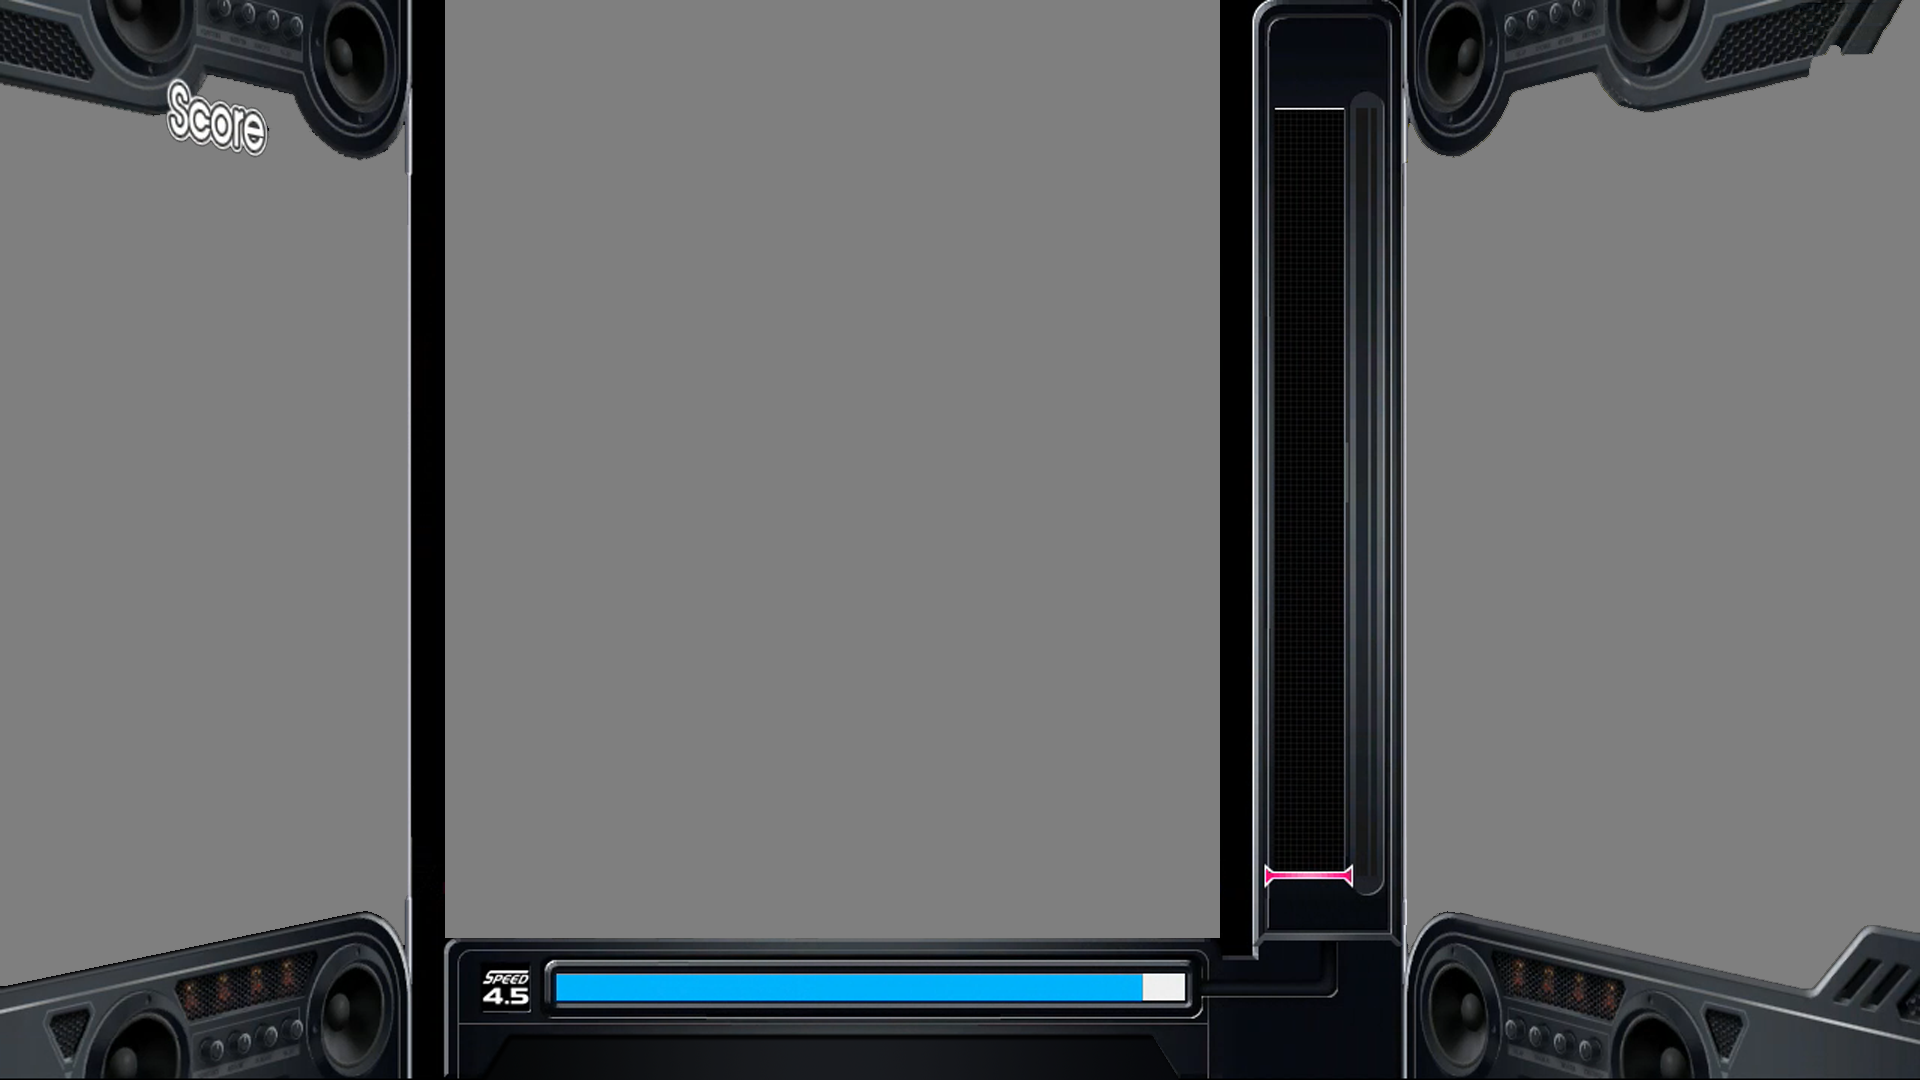
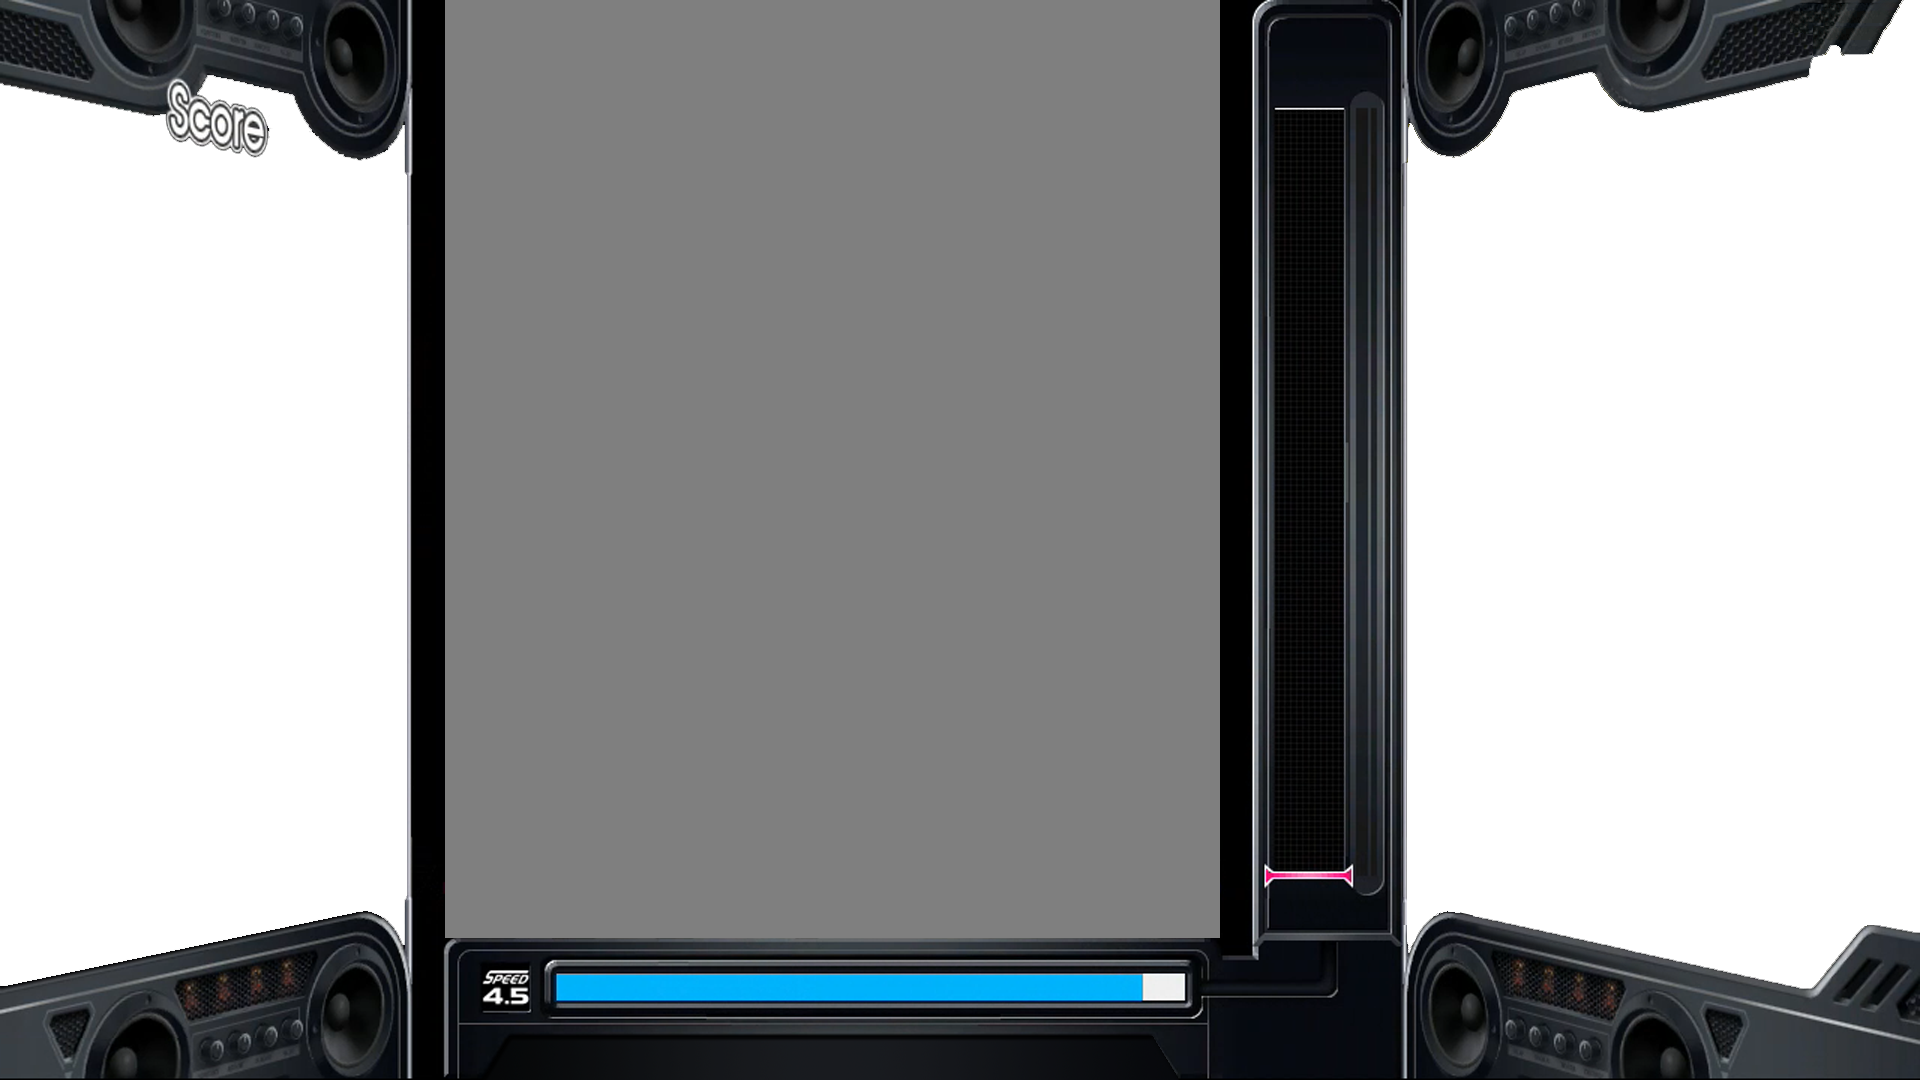
左右サイドのクリアパネルを実装。

diff --git a/DTXmatixx/ステージ/演奏/演奏ステージ.cs b/DTXmatixx/ステージ/演奏/演奏ステージ.cs
@@ -48,6 +48,9 @@ namespace DTXmatixx.ステージ.演奏
 			this.子リスト.Add( this._ドラムチップ画像 = new 画像( @"$(System)images\ドラムチップ.png" ) );
 			this.子リスト.Add( this._判定文字列 = new 判定文字列() );
 			this.子リスト.Add( this._チップ光 = new チップ光() );
+			this.子リスト.Add( this._左サイドクリアパネル = new 左サイドクリアパネル() );
+			this.子リスト.Add( this._右サイドクリアパネル = new 右サイドクリアパネル() );
+			this.子リスト.Add( this._コンボ = new コンボ() );
 			this.子リスト.Add( this._FPS = new FPS() );
 		}
 		protected override void On活性化( グラフィックデバイス gd )
@@ -331,10 +334,20 @@ namespace DTXmatixx.ステージ.演奏
 			{
 				case フェーズ.フェードイン:
 					{
+						this._左サイドクリアパネル.クリアする( gd );
+						this._左サイドクリアパネル.クリアパネル.ビットマップへ描画する( gd, ( dc, bmp ) => {
+							this._ステータスパネル.描画する( dc, bmp );
+						} );
+						this._左サイドクリアパネル.描画する( gd );
+
+						this._右サイドクリアパネル.クリアする( gd );
+						this._右サイドクリアパネル.クリアパネル.ビットマップへ描画する( gd, ( dc, bmp ) => {
+							this._成績パネル.描画する( dc, bmp );
+						} );
+						this._右サイドクリアパネル.描画する( gd );
+
 						this._背景画像.描画する( gd, 0f, 0f );
 						this._ドラムパッド.進行描画する( gd );
-						this._ステータスパネル.描画する( gd );
-						this._成績パネル.進行描画する( gd );
 						this._曲名パネル.描画する( gd );
 						this._ヒットバーを描画する( gd );
 						this._キャプチャ画面を描画する( gd, ( 1.0f - this._フェードインカウンタ.現在値の割合 ) );
@@ -403,16 +416,28 @@ namespace DTXmatixx.ステージ.演奏
 							// 開始直後のデコードが重たいかもしれないので、演奏時刻をここで更新しておく。	---> 重たくても更新禁止！（譜面スクロールがガタつく原因になる）
 							//演奏時刻sec = this._演奏開始からの経過時間secを返す();
 						}
+
+						this._左サイドクリアパネル.クリアする( gd );
+						this._左サイドクリアパネル.クリアパネル.ビットマップへ描画する( gd, ( dc, bmp ) => {
+							this._ステータスパネル.描画する( dc, bmp );
+						} );
+						this._左サイドクリアパネル.描画する( gd );
+
+						this._右サイドクリアパネル.クリアする( gd );
+						this._右サイドクリアパネル.クリアパネル.ビットマップへ描画する( gd, ( dc, bmp ) => {
+							this._成績パネル.描画する( dc, bmp );
+						} );
+						this._右サイドクリアパネル.描画する( gd );
+
 						this._小節線拍線を描画する( gd, 演奏時刻sec );
 						this._背景画像.描画する( gd, 0f, 0f );
 						this._ドラムパッド.進行描画する( gd );
-						this._ステータスパネル.描画する( gd );
-						this._成績パネル.進行描画する( gd );
 						this._曲名パネル.描画する( gd );
 						this._ヒットバーを描画する( gd );
 						this._チップを描画する( gd, 演奏時刻sec );
 						this._チップ光.進行描画する( gd );
 						this._判定文字列.進行描画する( gd );
+//						this._コンボ.進行描画する( gd );
 						this._FPS.VPSをカウントする();
 						this._FPS.描画する( gd, 0f, 0f );
 					}
@@ -468,6 +493,9 @@ namespace DTXmatixx.ステージ.演奏
 		private ドラムパッド _ドラムパッド = null;
 		private 判定文字列 _判定文字列 = null;
 		private チップ光 _チップ光 = null;
+		private 左サイドクリアパネル _左サイドクリアパネル = null;
+		private 右サイドクリアパネル _右サイドクリアパネル = null;
+		private コンボ _コンボ = null;
 		private FPS _FPS = null;
 		/// <summary>
 		///		読み込み画面: 0 ～ 1: 演奏画面

diff --git a/DTXmatixx/ステージ/演奏/左サイドクリアパネル.cs b/DTXmatixx/ステージ/演奏/左サイドクリアパネル.cs
@@ -1,0 +1,68 @@
+using System;
+using System.Collections.Generic;
+using System.Diagnostics;
+using System.Linq;
+using SharpDX;
+using SharpDX.Direct2D1;
+using FDK;
+using FDK.メディア;
+
+namespace DTXmatixx.ステージ.演奏
+{
+	class 左サイドクリアパネル : Activity
+	{
+		public ビットマップ付きテクスチャ クリアパネル
+		{
+			get;
+			protected set;
+		} = null;
+
+		public 左サイドクリアパネル()
+		{
+			this.子リスト.Add( this._背景 = new 画像( @"$(System)images\左サイドクリアパネル.png" ) );
+			this.子リスト.Add( this.クリアパネル = new ビットマップ付きテクスチャ( new Size2( 388, 990 ) ) );	// this._背景.サイズはまだ設定されていない。
+		}
+
+		protected override void On活性化( グラフィックデバイス gd )
+		{
+			using( Log.Block( FDKUtilities.現在のメソッド名 ) )
+			{
+			}
+		}
+		protected override void On非活性化( グラフィックデバイス gd )
+		{
+			using( Log.Block( FDKUtilities.現在のメソッド名 ) )
+			{
+			}
+		}
+
+		/// <summary>
+		///		クリアパネルに初期背景を上書きすることで、それまで描かれていた内容を消去する。
+		/// </summary>
+		public void クリアする( グラフィックデバイス gd )
+		{
+			this.クリアパネル.ビットマップへ描画する( gd, ( dc, bmp ) => {
+				// bmp は AlphaMode.Premultiplied なので、opacity に何を設定しても 1f（不透明）扱いになるので注意。
+				dc.DrawBitmap( this._背景.Bitmap, opacity: 0.005f, interpolationMode: InterpolationMode.Linear );
+			} );
+		}
+		public void 描画する( グラフィックデバイス gd )
+		{
+			// テクスチャは画面中央が (0,0,0) で、Xは右がプラス方向, Yは上がプラス方向, Zは奥がプラス方向+。
+
+			var 画面左上dpx = new Vector3(  // 3D視点で見る画面左上の座標。
+				-gd.設計画面サイズ.Width / 2f,
+				+gd.設計画面サイズ.Height / 2f,
+				0f );
+
+			var 変換行列 =
+				Matrix.Scaling( this.クリアパネル.サイズ.Width, this.クリアパネル.サイズ.Height, 1f ) *
+				Matrix.RotationY( MathUtil.DegreesToRadians( -48f ) ) *
+				Matrix.Translation( 画面左上dpx.X + 230f, 画面左上dpx.Y - 530f, 0f );
+
+			this.クリアパネル.描画する( gd, 変換行列 );
+		}
+
+		private 画像 _背景 = null;
+	}
+}

diff --git a/DTXmatixx/ステージ/演奏/コンボ.cs b/DTXmatixx/ステージ/演奏/コンボ.cs
@@ -1,0 +1,75 @@
+using System;
+using System.Collections.Generic;
+using System.Diagnostics;
+using System.Linq;
+using SharpDX;
+using FDK;
+using FDK.メディア;
+
+namespace DTXmatixx.ステージ.演奏
+{
+	class コンボ : Activity
+	{
+		public int 現在値
+		{
+			get;
+			set;
+		} = 1234567;
+
+		public コンボ()
+		{
+			this.子リスト.Add( this._コンボ文字画像 = new テクスチャ( @"$(System)images\コンボ文字.png" ) );
+		}
+
+		protected override void On活性化( グラフィックデバイス gd )
+		{
+			using( Log.Block( FDKUtilities.現在のメソッド名 ) )
+			{
+				this._コンボ文字画像の矩形 = new 矩形リスト( @"$(System)images\コンボ文字矩形.xml" );
+			}
+		}
+		protected override void On非活性化( グラフィックデバイス gd )
+		{
+			using( Log.Block( FDKUtilities.現在のメソッド名 ) )
+			{
+			}
+		}
+
+		public void 進行描画する( グラフィックデバイス gd )
+		{
+			// テクスチャは画面中央が (0,0,0) で、Xは右がプラス方向, Yは上がプラス方向, Zは奥がプラス方向+。
+
+			var 画面左上dpx = new Vector3(  // 3D視点で見る画面左上の座標。
+				-gd.設計画面サイズ.Width / 2f,
+				+gd.設計画面サイズ.Height / 2f,
+				0f );
+
+			var 数字 = this.現在値.ToString();
+
+			float 数字全体の幅dpx = 0f;
+			for( int i = 0; i < 数字.Length; i++ )
+				数字全体の幅dpx += this._コンボ文字画像の矩形[ 数字[ i ].ToString() ].Value.Size.Width;
+
+			float Xdpx = -( 数字全体の幅dpx / 2f );
+			for( int i = 0; i < 数字.Length; i++ )
+			{
+				var 矩形 = this._コンボ文字画像の矩形[ 数字[ i ].ToString() ].Value;
+
+				//矩形.Width *= 0.5f;   // 修正
+
+				var 変換行列 =
+					Matrix.Scaling( 矩形.Width, 矩形.Height, 1f ) *
+					Matrix.Translation( Xdpx, 0f, 0f ) *  // ローカル座標での移動
+					Matrix.RotationY( MathUtil.DegreesToRadians( +48f ) ) *
+					Matrix.Translation( 画面左上dpx.X + 1506f, 画面左上dpx.Y - 530f, 0f );  // ワールド座標での移動
+
+				this._コンボ文字画像.描画する( gd, 変換行列, 矩形 );
+
+				Xdpx += 矩形.Width;// - 10f; // ちょっと詰める
+			}
+		}
+
+		private テクスチャ _コンボ文字画像 = null;
+		private 矩形リスト _コンボ文字画像の矩形 = null;
+	}
+}

diff --git a/DTXmatixx/ステージ/演奏/右サイドクリアパネル.cs b/DTXmatixx/ステージ/演奏/右サイドクリアパネル.cs
@@ -1,0 +1,67 @@
+using System;
+using System.Collections.Generic;
+using System.Diagnostics;
+using System.Linq;
+using SharpDX;
+using SharpDX.Direct2D1;
+using FDK;
+using FDK.メディア;
+
+namespace DTXmatixx.ステージ.演奏
+{
+	class 右サイドクリアパネル : Activity
+	{
+		public ビットマップ付きテクスチャ クリアパネル
+		{
+			get;
+			protected set;
+		} = null;
+
+		public 右サイドクリアパネル()
+		{
+			this.子リスト.Add( this._背景 = new 画像( @"$(System)images\右サイドクリアパネル.png" ) );
+			this.子リスト.Add( this.クリアパネル = new ビットマップ付きテクスチャ( new Size2( 500, 990 ) ) );  // this._背景.サイズはまだ設定されていない。
+		}
+
+		protected override void On活性化( グラフィックデバイス gd )
+		{
+			using( Log.Block( FDKUtilities.現在のメソッド名 ) )
+			{
+			}
+		}
+		protected override void On非活性化( グラフィックデバイス gd )
+		{
+			using( Log.Block( FDKUtilities.現在のメソッド名 ) )
+			{
+			}
+		}
+
+		/// <summary>
+		///		クリアパネルに初期背景を上書きすることで、それまで描かれていた内容を消去する。
+		/// </summary>
+		public void クリアする( グラフィックデバイス gd )
+		{
+			this.クリアパネル.ビットマップへ描画する( gd, ( dc, bmp ) => {
+				dc.DrawBitmap( this._背景.Bitmap, opacity: 0.005f, interpolationMode: InterpolationMode.Linear );
+			} );
+		}
+		public void 描画する( グラフィックデバイス gd )
+		{
+			// テクスチャは画面中央が (0,0,0) で、Xは右がプラス方向, Yは上がプラス方向, Zは奥がプラス方向+。
+
+			var 画面左上dpx = new Vector3(  // 3D視点で見る画面左上の座標。
+				-gd.設計画面サイズ.Width / 2f,
+				+gd.設計画面サイズ.Height / 2f,
+				0f );
+
+			var 変換行列 =
+				Matrix.Scaling( this.クリアパネル.サイズ.Width, this.クリアパネル.サイズ.Height, 1f ) *
+				Matrix.RotationY( MathUtil.DegreesToRadians( +48f ) ) *
+				Matrix.Translation( 画面左上dpx.X + 1630f, 画面左上dpx.Y - 530f, 0f );
+
+			this.クリアパネル.描画する( gd, 変換行列 );
+		}
+
+		private 画像 _背景 = null;
+	}
+}

diff --git a/DTXmatixx/ステージ/演奏/ステータスパネル.cs b/DTXmatixx/ステージ/演奏/ステータスパネル.cs
@@ -3,6 +3,7 @@ using System.Collections.Generic;
 using System.Diagnostics;
 using System.Linq;
 using SharpDX;
+using SharpDX.Direct2D1;
 using FDK;
 using FDK.メディア;
 
@@ -12,7 +13,7 @@ namespace DTXmatixx.ステージ.演奏
 	{
 		public ステータスパネル()
 		{
-			this.子リスト.Add( this._パネル = new テクスチャ( @"$(System)images\演奏画面_ステータスパネル.png" ) );
+			this.子リスト.Add( this._パネル = new 画像( @"$(System)images\演奏画面_ステータスパネル.png" ) );
 		}
 
 		protected override void On活性化( グラフィックデバイス gd )
@@ -28,23 +29,15 @@ namespace DTXmatixx.ステージ.演奏
 			}
 		}
 
-		public void 描画する( グラフィックデバイス gd )
+		public void 描画する( DeviceContext1 描画先dc, Bitmap1 描画先bmp )
 		{
-			// テクスチャは画面中央が (0,0,0) で、Xは右がプラス方向, Yは上がプラス方向, Zは奥がプラス方向+。
-
-			var 画面左上dpx = new Vector3(  // 3D視点で見る画面左上の座標。
-				-gd.設計画面サイズ.Width / 2f,
-				+gd.設計画面サイズ.Height / 2f,
-				0f );
-
-			var 変換行列 =
-				Matrix.Scaling( this._パネル.サイズ.Width, this._パネル.サイズ.Height, 1f ) *
-				Matrix.RotationY( MathUtil.DegreesToRadians( -48f ) ) *
-				Matrix.Translation( 画面左上dpx.X + 270f, 画面左上dpx.Y - 610f, 0f );
-
-			this._パネル.描画する( gd, 変換行列 );
+			描画先dc.DrawBitmap(
+				this._パネル.Bitmap,
+				destinationRectangle: new RectangleF( 108f, 272f, 275f, 629f ),
+				opacity: 0.01f,
+				interpolationMode: BitmapInterpolationMode.Linear );
 		}
 
-		private テクスチャ _パネル = null;
+		private 画像 _パネル = null;
 	}
 }

diff --git a/DTXmatixx/ステージ/演奏/成績パネル.cs b/DTXmatixx/ステージ/演奏/成績パネル.cs
@@ -3,6 +3,7 @@ using System.Collections.Generic;
 using System.Diagnostics;
 using System.Linq;
 using SharpDX;
+using SharpDX.Direct2D1;
 using FDK;
 using FDK.メディア;
 
@@ -12,7 +13,7 @@ namespace DTXmatixx.ステージ.演奏
 	{
 		public 成績パネル()
 		{
-			this.子リスト.Add( this._パネル = new テクスチャ( @"$(System)images\演奏画面_成績パネル.png" ) );
+			this.子リスト.Add( this._パネル = new 画像( @"$(System)images\演奏画面_成績パネル.png" ) );
 		}
 
 		protected override void On活性化( グラフィックデバイス gd )
@@ -28,23 +29,15 @@ namespace DTXmatixx.ステージ.演奏
 			}
 		}
 
-		public void 進行描画する( グラフィックデバイス gd )
+		public void 描画する( DeviceContext1 描画先dc, Bitmap1 描画先bmp )
 		{
-			// テクスチャは画面中央が (0,0,0) で、Xは右がプラス方向, Yは上がプラス方向, Zは奥がプラス方向+。
-
-			var 画面左上dpx = new Vector3(  // 3D視点で見る画面左上の座標。
-				-gd.設計画面サイズ.Width / 2f,
-				+gd.設計画面サイズ.Height / 2f,
-				0f );
-
-			var 変換行列 =
-				Matrix.Scaling( this._パネル.サイズ.Width, this._パネル.サイズ.Height, 1f ) *
-				Matrix.RotationY( MathUtil.DegreesToRadians( +48f ) ) *
-				Matrix.Translation( 画面左上dpx.X + 1506f, 画面左上dpx.Y - 530f, 0f );
-
-			this._パネル.描画する( gd, 変換行列 );
+			描画先dc.DrawBitmap(
+				this._パネル.Bitmap,
+				destinationRectangle: new RectangleF( +12f, +80f, 225f, 848f ),
+				opacity: 0.01f,
+				interpolationMode: BitmapInterpolationMode.Linear );
 		}
 
-		private テクスチャ _パネル = null;
+		private 画像 _パネル = null;
 	}
 }

diff --git a/DTXmatixx/App.cs b/DTXmatixx/App.cs
@@ -71,7 +71,7 @@ namespace DTXmatixx
 		} = null;
 
 		public App()
-			: base( 設計画面サイズ: new SizeF( 1920f, 1080f ), 物理画面サイズ: new SizeF( 1280f, 720f ) )
+			: base( 設計画面サイズ: new SizeF( 1920f, 1080f ), 物理画面サイズ: new SizeF( 1920f, 1080f ) )
 		{
 			this.Text = $"{Application.ProductName} {Application.ProductVersion}";
 
